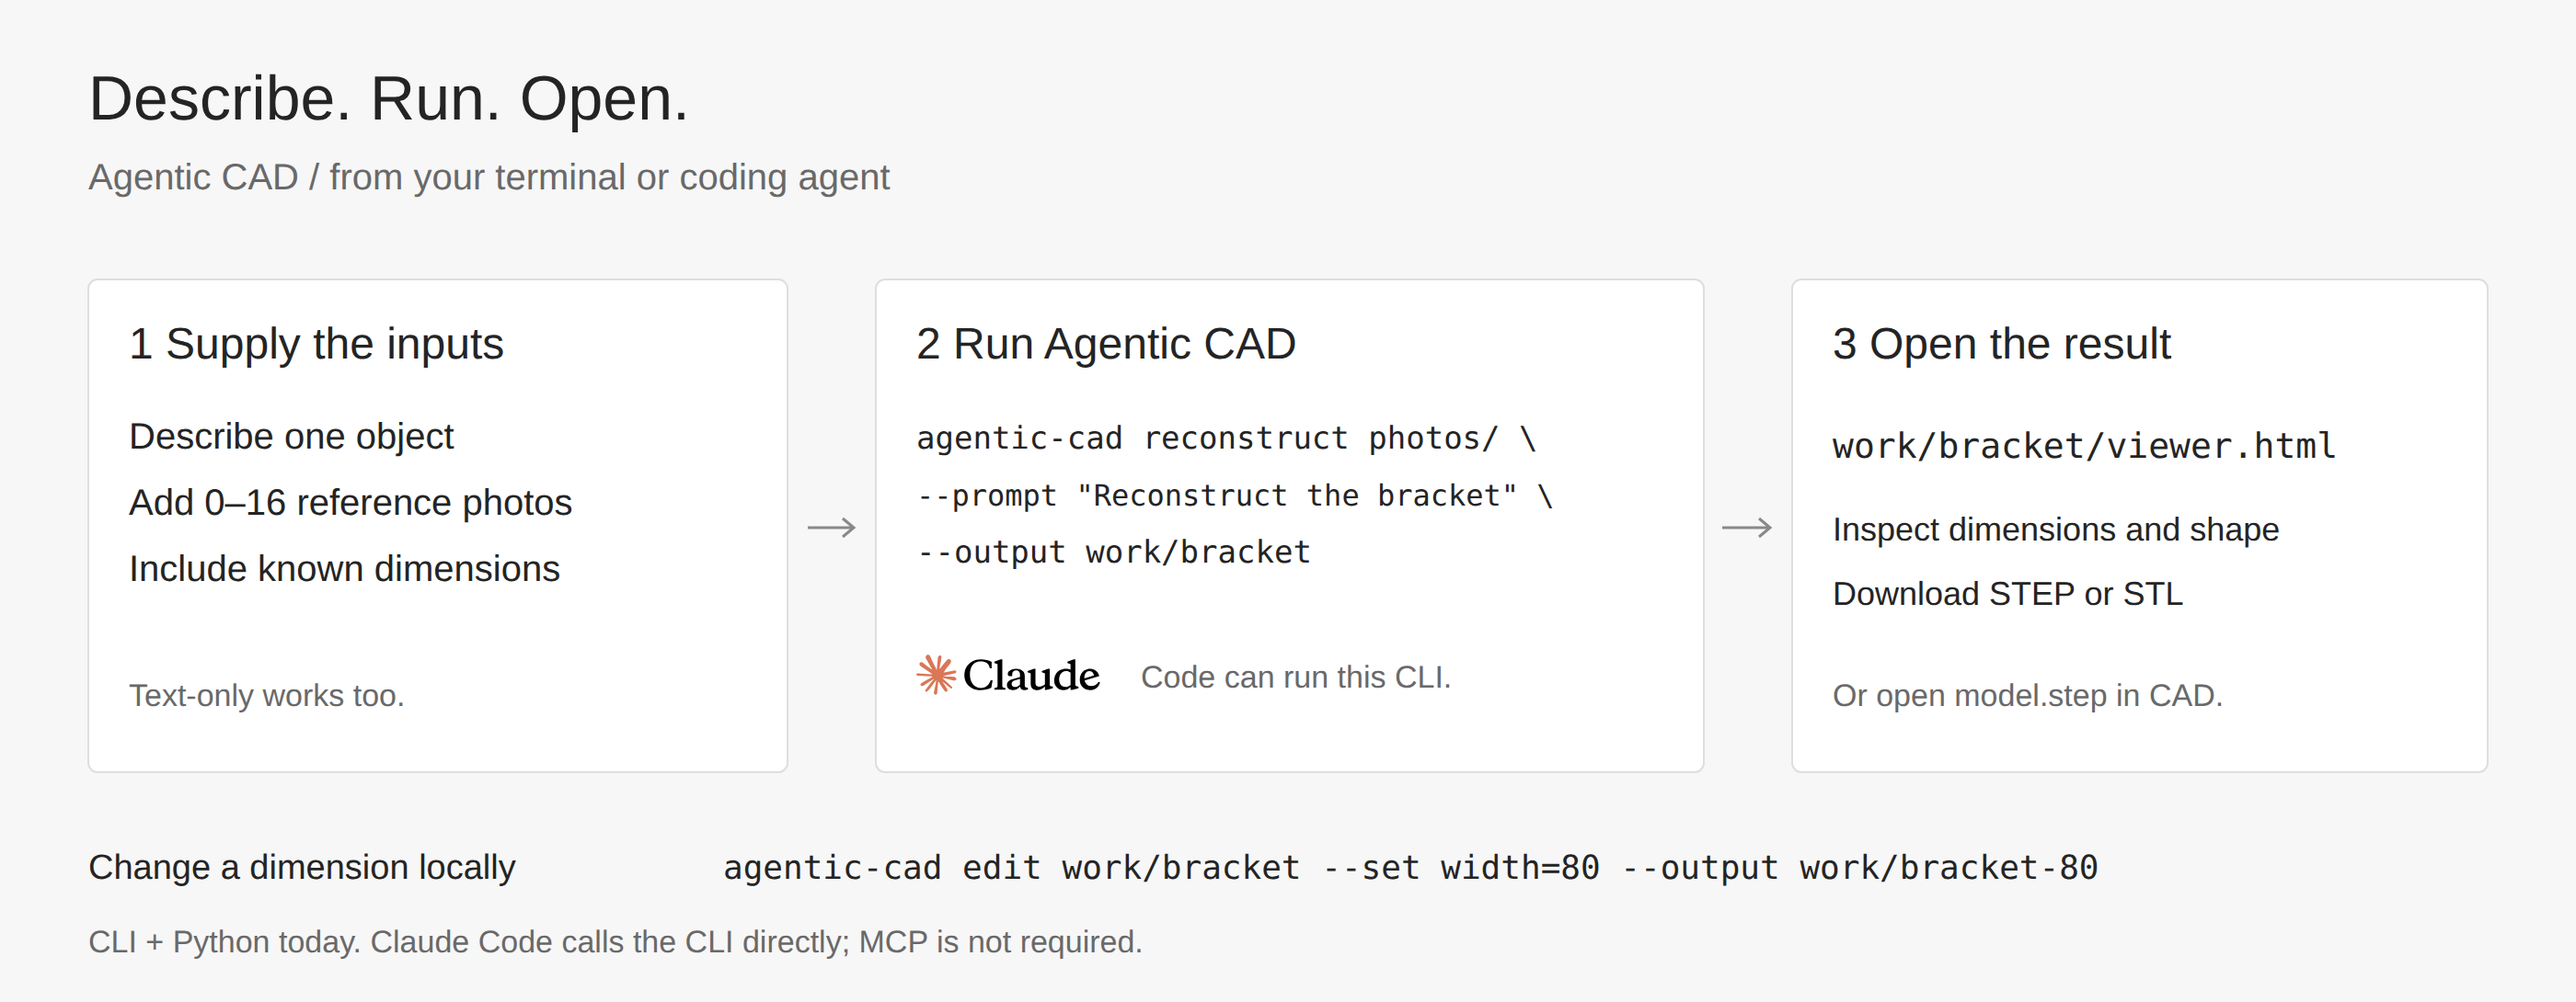
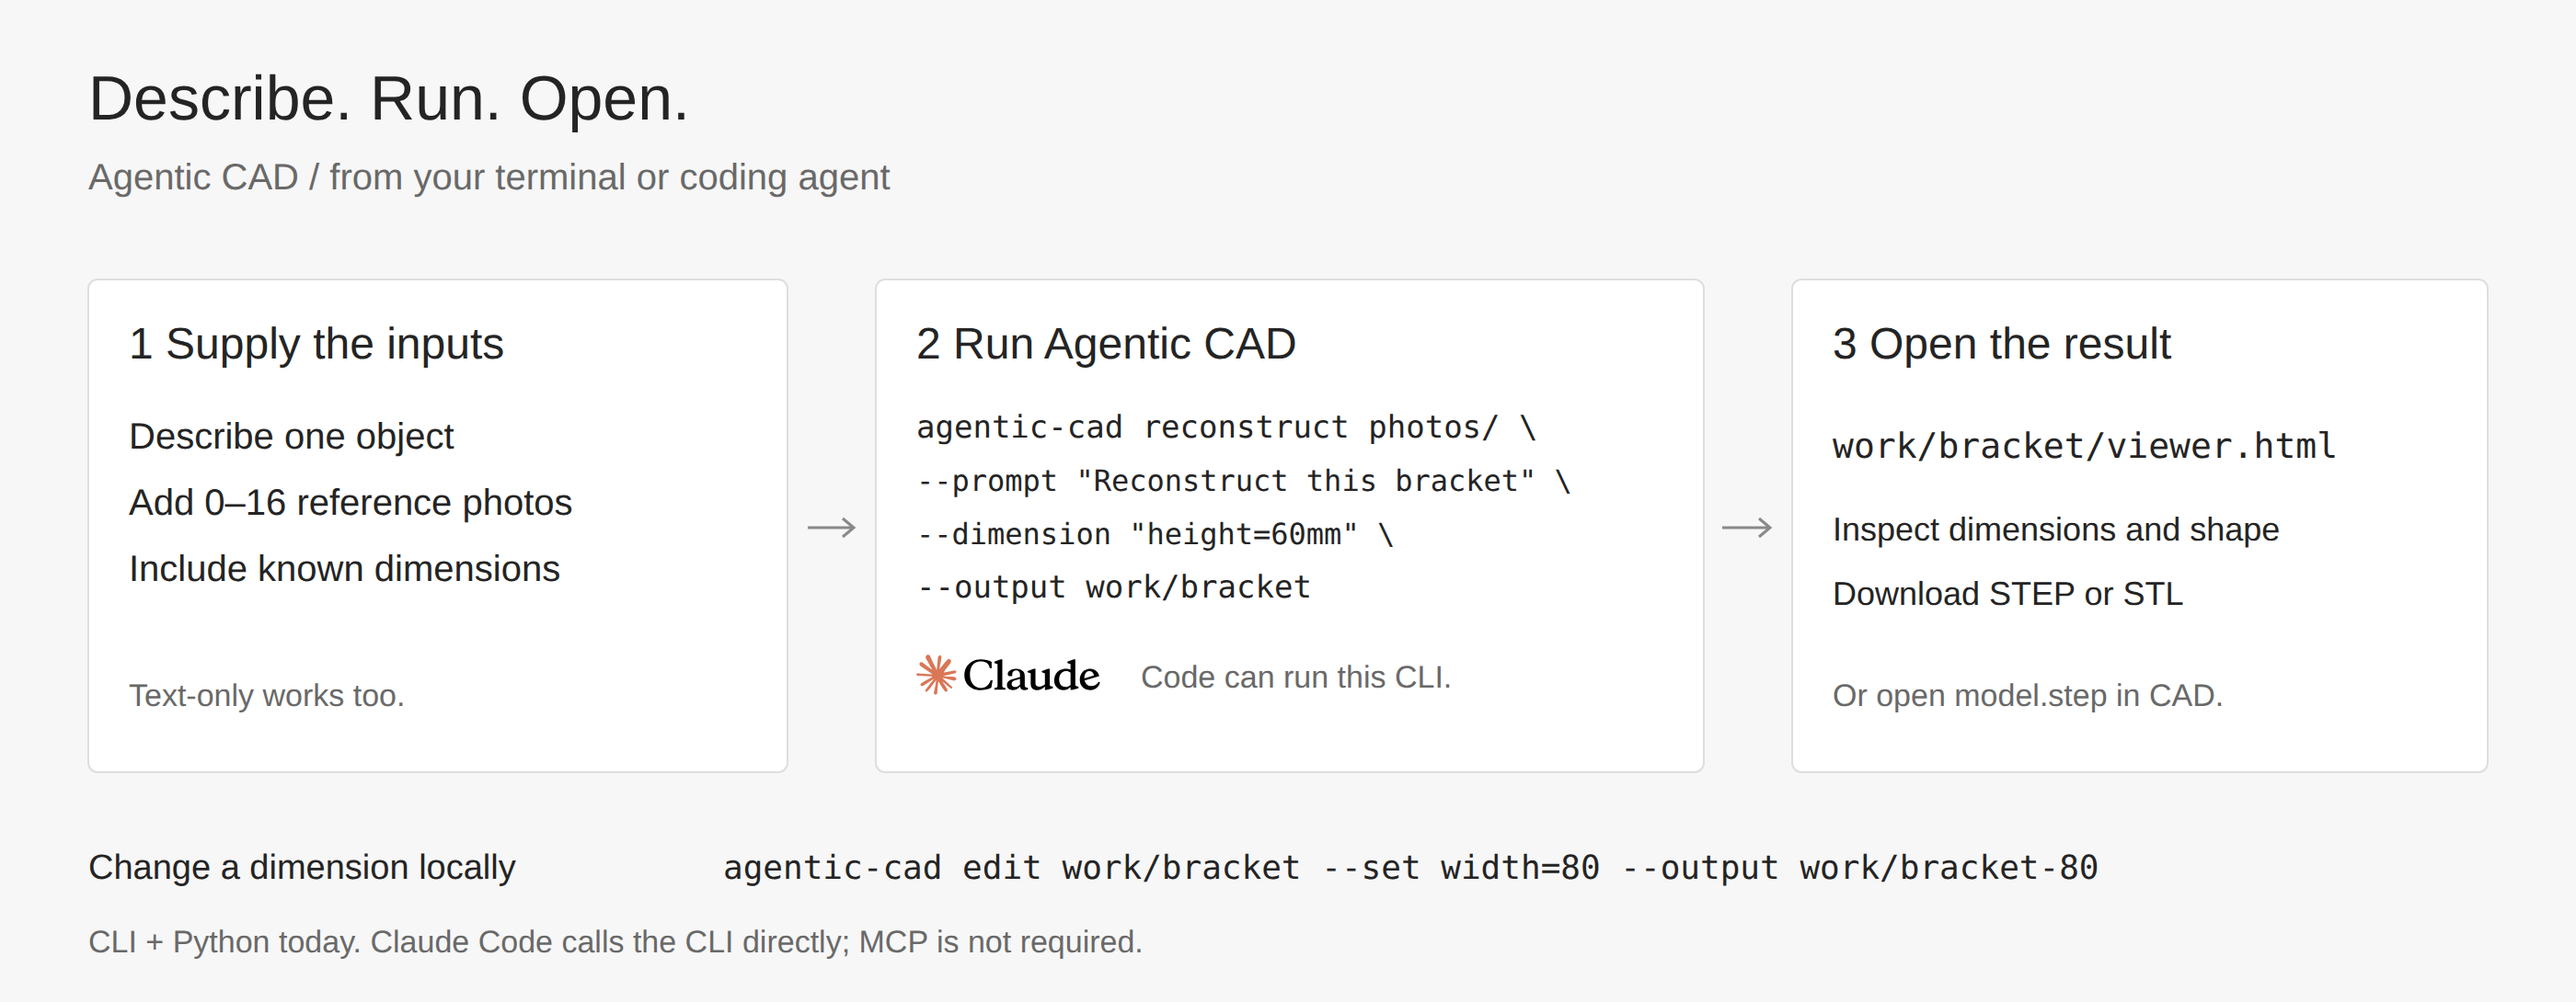
Clarify proxy routing, metadata downloads and the illustrated command

Changed region(s): [[0.3418, 0.4055, 0.6214, 0.5927]]

diff --git a/src/da3_cad/viewer/template.html b/src/da3_cad/viewer/template.html
@@ -722,7 +722,7 @@
             stl: "STL",
             python: "Python source",
             parameters: "Parameters",
-            provenance: "Run metadata",
+            provenance: "Provenance",
           }[name] || name;
         $("downloads").append(a);
       });

diff --git a/SECURITY.md b/SECURITY.md
@@ -14,16 +14,20 @@ known.
 
 ## Relevant threat boundaries
 
-Agentic CAD processes untrusted images, videos, camera bundles, masks, YAML, meshes,
-and generated CadQuery source. The project:
+The product accepts text and JPEG, PNG or WebP photos, receives generated
+CadQuery source from a remote provider, and builds CAD and viewer meshes locally.
+It:
 
-- validates paths, arrays, transforms, finite values, and mesh topology;
-- applies an AST allow-list to generated source;
-- executes CAD generation in an isolated subprocess with memory, CPU, and wall
-  limits;
-- refuses existing output directories and divergent external artifacts;
-- hashes external source, weights, captures, and inputs;
+- checks input paths, file sizes and image formats;
+- applies a geometric AST allow-list to model-generated source;
+- executes CAD in a subprocess with memory, CPU and wall-time limits;
+- checks that the result is one valid, positive-volume solid;
+- refuses existing output directories and records input image hashes;
 - reads provider credentials locally and sends text and photos to the selected API.
+
+Optional research commands additionally process video, calibrated camera/depth
+bundles, masks, YAML and external weights. They are separate from the product
+reconstruction path.
 
 The CAD subprocess removes environment variables whose names contain KEY, TOKEN,
 SECRET or PASSWORD. This filter is not a complete credential isolation boundary.

diff --git a/docs/PHOTO_CAD.md b/docs/PHOTO_CAD.md
@@ -65,7 +65,9 @@ execution failures; they do not perform image-based shape optimization.
 
 A successful run contains `model.step`, `model.stl`, `model.py`, `parameters.json`,
 `quality.json`, `provenance.json`, `report.json` and, by default, `viewer.html`.
-Original reference images are copied into the run for its offline preview.
+The viewer’s **Provenance** download is `provenance.json`; `report.json` and
+`quality.json` remain separate files in the run folder. Original reference images
+are copied into the run for its offline preview.
 API responses and intermediate programs stay under the local `attempts/` folder.
 Requests use `store=false`; provider retention policies still apply.
 

diff --git a/README.md b/README.md
@@ -52,6 +52,7 @@ A CLI and Python function are available today. There is no hosted HTTP API or MC
 | `model.step` / `model.stl` | CAD and mesh tools |
 | `model.py` / `parameters.json` | Edit dimensions |
 | `viewer.html` | Offline preview and downloads |
+| `report.json` | Run result and provider usage |
 
 [Usage](docs/PHOTO_CAD.md) · [Integration & Claude Code](docs/INTEGRATION.md) · [Validation](docs/BENCHMARKS.md) · [Editable diagrams](docs/assets/workflow/README.md) · [Apache-2.0](LICENSE)
 
